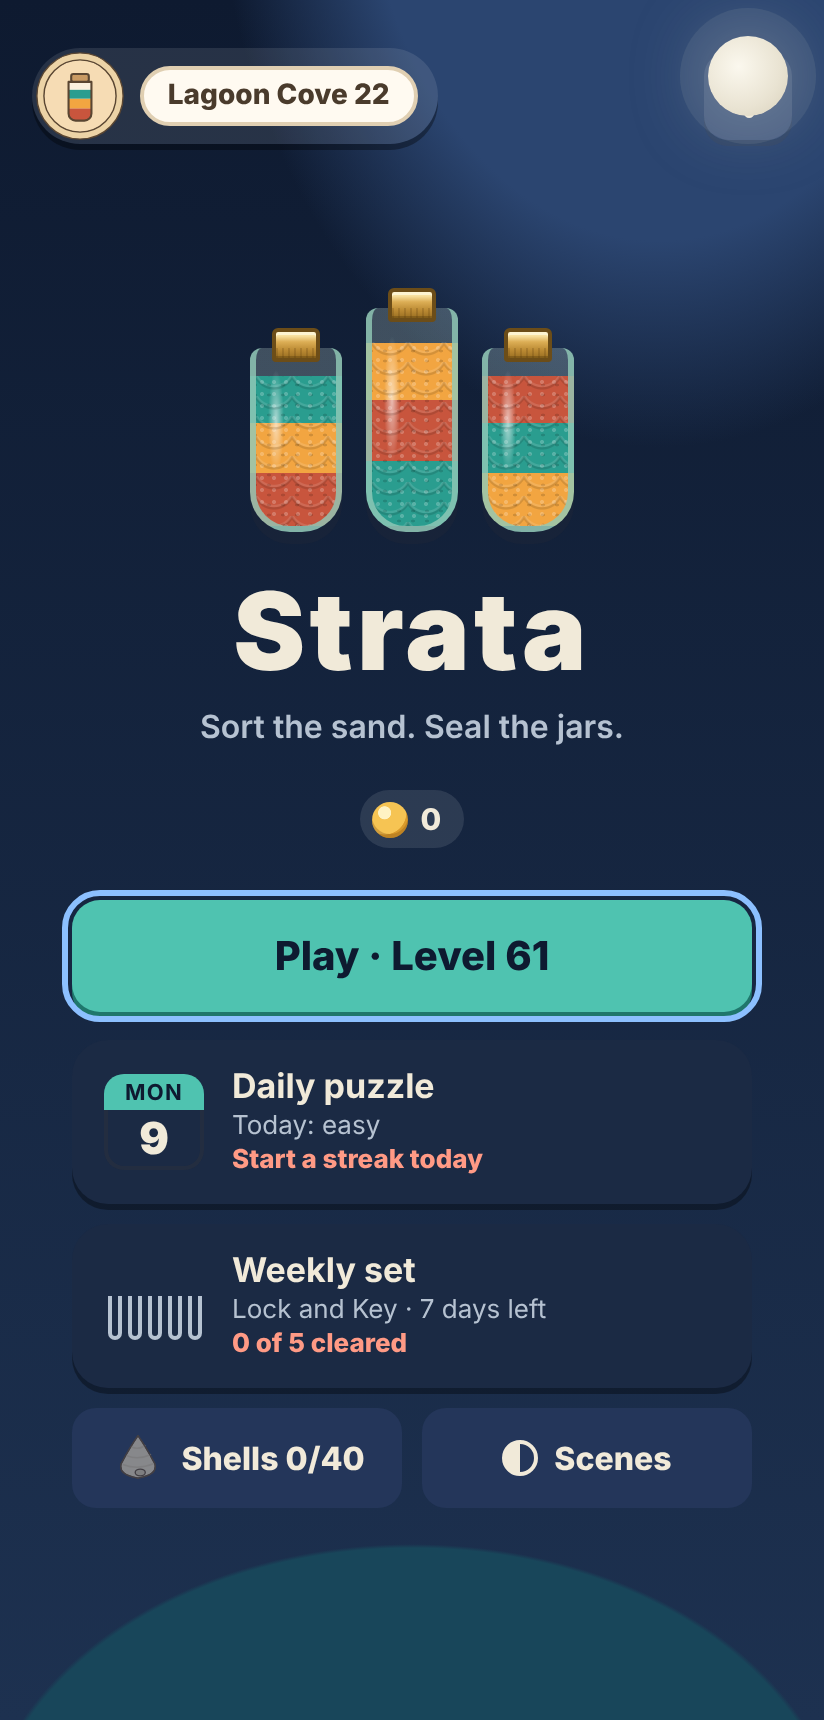
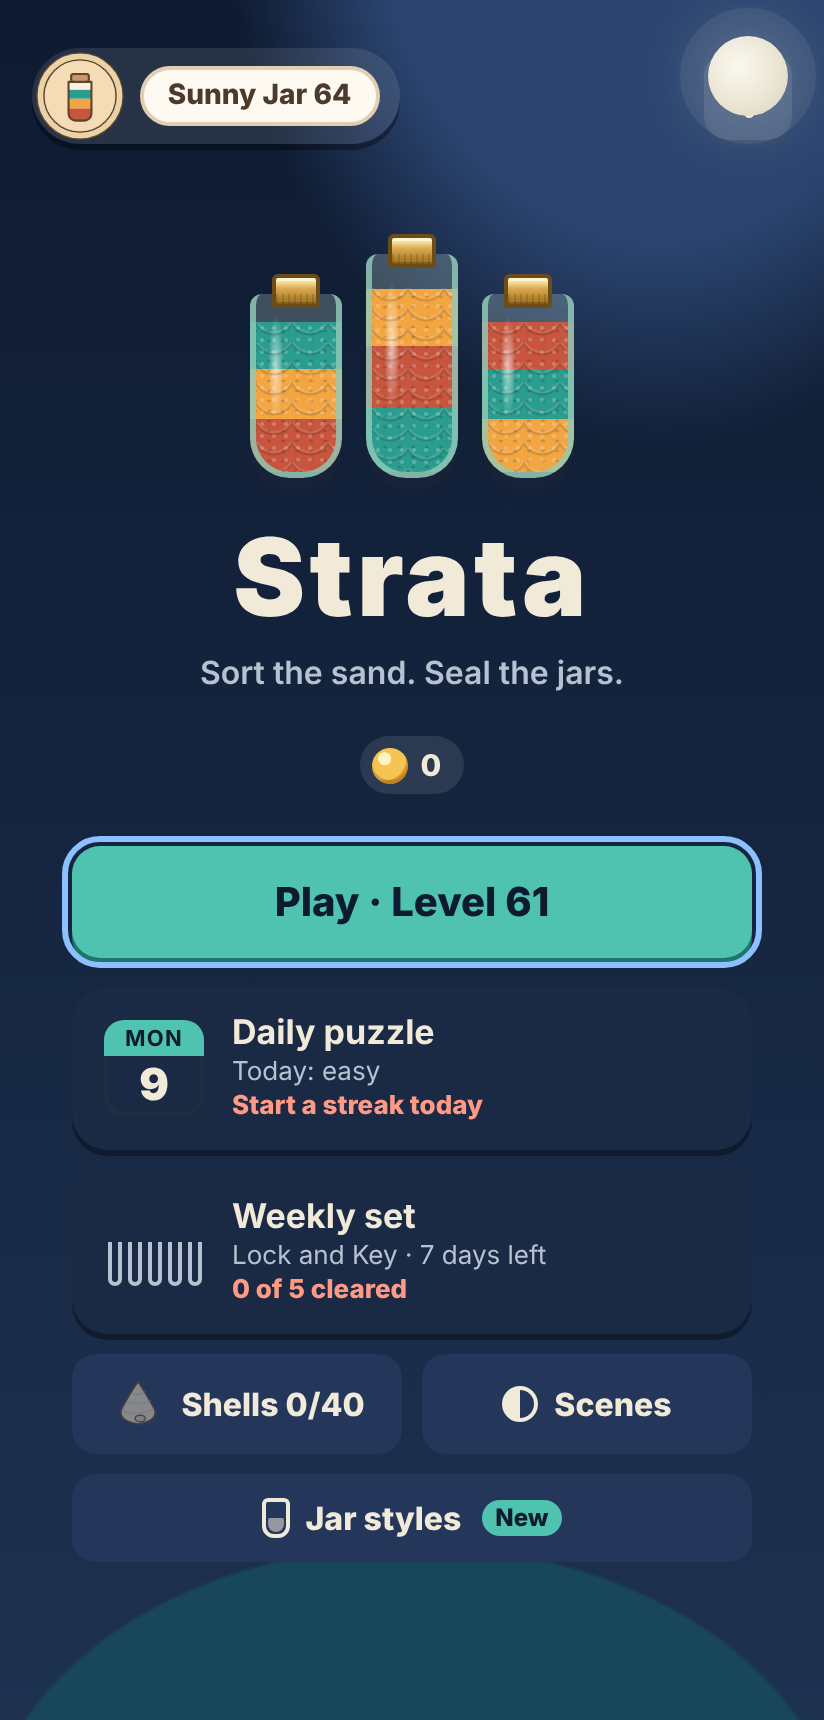
fix: jar style art review fixes (Home cork, frost, glint, pearl, pour and buried sand)
- Home art shows a stopper for every cork, the default included (today's board cork).
- Sea glass frost alpha follows the scene's --glass: quiet on dark scenes.
- Glint sparkles get a faint dark halo, so they read on light sand.
- Pearl outline is more opaque than the scene edge, at least as strong as clear glass.
- The worn sand texture now shows on the mid-pour tilted fill and under buried "?" units
  (generated from the table; the cap test now also covers the buried colour).
- Evidence regenerated, plus two mid-pour captures.

Story: sprint-12 S3. Design: design/gdd/jar-styles.md

Claude-Session: https://claude.ai/code/session_0159TZnrk52QMtuhsaHD9b53

Changed region(s): [[0.0607, 0.1233, 0.9405, 0.8936], [0.2124, 0.0308, 0.5158, 0.0924], [0.5461, 0.7087, 0.6675, 0.7703]]

diff --git a/src/ui/style.css b/src/ui/style.css
@@ -3509,7 +3509,8 @@ body[data-theme='harvestmoon']::before {
   --style-shine-x: 18%;
 }
 [data-glass='pearl'] {
-  --style-edge: color-mix(in srgb, var(--glass-edge) 65%, rgb(232, 214, 228));
+  /* A pearly grey-mauve that is more opaque than the scene edge, so the outline is at least as strong as clear glass. */
+  --style-edge: color-mix(in srgb, var(--glass-edge) 80%, rgb(120, 96, 120));
   --style-body: color-mix(in srgb, var(--glass) 75%, rgba(252, 240, 248, 0.6));
   --style-band: rgba(250, 232, 244, 0.42);
   --style-rim: linear-gradient(90deg, rgba(255, 232, 244, 0.7), rgba(228, 238, 255, 0.7) 50%, rgba(255, 246, 228, 0.7));
@@ -3535,7 +3536,8 @@ body[data-theme='harvestmoon']::before {
 }
 /* Sea glass is frosted: a fine white speckle on the empty glass above the sand (the funnel keeps its stripes). */
 [data-glass='seaglass'] .jar:not(.funnel) > .glass {
-  background-image: radial-gradient(rgba(255, 255, 255, 0.22) 0.6px, transparent 1px);
+  /* Scene-aware: about 0.2 alpha on light scenes' glass, about 0.05 on dark scenes' (--glass is 0.1 there). */
+  background-image: radial-gradient(color-mix(in srgb, var(--glass) 55%, transparent) 0.6px, transparent 1px);
   background-size: 3px 3px;
 }
 /* Home art: the outline and a highlight streak (the art has no rim). */
@@ -3546,8 +3548,9 @@ body[data-theme='harvestmoon']::before {
     linear-gradient(0deg, var(--a) 0 30%, var(--b) 30% 58%, var(--c2) 58% 84%, var(--style-body) 84%);
 }
 
-/* Cork: the stopper on sealed jars, and a stopper on the Home art (today's Home art has none, so the
-   default cork shows none there). Each piece is one background, edge, shape and shadow. */
+/* Cork: the stopper on sealed jars, and a stopper on the Home art. Each piece is one background, edge,
+   shape and shadow. The Home stopper shows for every cork, the default included (the owner's call in
+   sprint 12 review: this adds a stopper to today's Home art); its fallbacks are the board's default cork. */
 [data-cork='driftwood'] {
   --cork-bg:
     repeating-linear-gradient(90deg, rgba(64, 58, 52, 0.3) 0 1px, transparent 1px 3.5px),
@@ -3587,19 +3590,19 @@ body[data-theme='harvestmoon']::before {
   border-radius: var(--cork-radius);
   box-shadow: var(--cork-shadow, none);
 }
-:is([data-cork='driftwood'], [data-cork='rope'], [data-cork='scallop'], [data-cork='brass']) .logo-jars i {
+.logo-jars i {
   position: relative;
 }
-:is([data-cork='driftwood'], [data-cork='rope'], [data-cork='scallop'], [data-cork='brass']) .logo-jars i::before {
+.logo-jars i::before {
   content: '';
   position: absolute;
   left: 20%;
   right: 20%;
   top: -10px;
   height: 13px;
-  background: var(--cork-bg);
-  border: 2px solid var(--cork-edge);
-  border-radius: var(--cork-radius);
+  background: var(--cork-bg, radial-gradient(rgba(0, 0, 0, 0.18) 1px, transparent 1.5px) 0 0 / 5px 4px, linear-gradient(180deg, #d8a86b, #b7834a));
+  border: 2px solid var(--cork-edge, #8a6136);
+  border-radius: var(--cork-radius, 5px 5px 3px 3px);
   box-shadow: var(--cork-shadow, none);
   pointer-events: none;
 }
@@ -3610,18 +3613,22 @@ body[data-theme='harvestmoon']::before {
    tests/unit/ui/style-art.test.ts fails if this block and the table differ, and checks the cap (jar-styles.md §4).
    The texture is drawn on ::before over the sand colour; with colour patterns on, ::after draws the
    unit's own .pat-* layers again on top (background-* inherit), so a pattern is never under a texture.
-   Buried units keep their own look. Nothing here animates. */
-:is([data-sand='fine'], [data-sand='glint'], [data-sand='layered'], [data-sand='ripple']) .unit:not(.buried) {
+   Buried units take it too, under their "?" (their colour stays var(--buried)); so do the stripes of
+   the tilted fill mid-pour (.tilt-band, coloured inline), where the texture is a clear overlay.
+   Nothing here animates. */
+:is([data-sand='fine'], [data-sand='glint'], [data-sand='layered'], [data-sand='ripple']) .unit,
+:is([data-sand='fine'], [data-sand='glint'], [data-sand='layered'], [data-sand='ripple']) .tilt-band > span {
   position: relative;
 }
-:is([data-sand='fine'], [data-sand='glint'], [data-sand='layered'], [data-sand='ripple']) .unit:not(.buried)::before,
+:is([data-sand='fine'], [data-sand='glint'], [data-sand='layered'], [data-sand='ripple']) .unit::before,
+:is([data-sand='fine'], [data-sand='glint'], [data-sand='layered'], [data-sand='ripple']) .tilt-band > span::before,
 :is([data-sand='fine'], [data-sand='glint'], [data-sand='layered'], [data-sand='ripple']) .unit[class*='pat-']::after {
   content: '';
   position: absolute;
   inset: 0;
   pointer-events: none;
 }
-:is([data-sand='fine'], [data-sand='glint'], [data-sand='layered'], [data-sand='ripple']) .unit:not(.buried)::before {
+:is([data-sand='fine'], [data-sand='glint'], [data-sand='layered'], [data-sand='ripple']) .unit::before {
   background-color: var(--c);
   box-shadow: inherit;
 }
@@ -3644,7 +3651,8 @@ body[data-theme='harvestmoon']::before {
   border-radius: 0 0 17px 17px;
   pointer-events: none;
 }
-[data-sand='fine'] .unit:not(.buried)::before,
+[data-sand='fine'] .unit::before,
+[data-sand='fine'] .tilt-band > span::before,
 [data-sand='fine'] .logo-jars i::after {
   background-image:
     radial-gradient(rgba(255, 255, 255, 0.2) 0.45px, transparent 0.8px),
@@ -3653,21 +3661,25 @@ body[data-theme='harvestmoon']::before {
   background-size: 4px 4px, 5px 4px, 3px 3px;
   background-position: 0px 0px, 2px 1px, 1px 2px;
 }
-[data-sand='glint'] .unit:not(.buried)::before,
+[data-sand='glint'] .unit::before,
+[data-sand='glint'] .tilt-band > span::before,
 [data-sand='glint'] .logo-jars i::after {
   background-image:
     radial-gradient(3.2px 0.45px, rgba(255, 255, 255, 0.25) 15%, transparent),
     radial-gradient(0.45px 3.2px, rgba(255, 255, 255, 0.25) 15%, transparent),
     radial-gradient(1.1px 1.1px, rgba(255, 255, 255, 0.25) 50%, transparent),
+    radial-gradient(2.4px 2.4px, rgba(0, 0, 0, 0.22) 35%, transparent),
     radial-gradient(2.4px 0.45px, rgba(255, 255, 255, 0.25) 15%, transparent),
     radial-gradient(0.45px 2.4px, rgba(255, 255, 255, 0.25) 15%, transparent),
     radial-gradient(1.1px 1.1px, rgba(255, 255, 255, 0.25) 50%, transparent),
+    radial-gradient(1.8px 1.8px, rgba(0, 0, 0, 0.22) 35%, transparent),
     radial-gradient(rgba(255, 255, 255, 0.22) 0.8px, transparent 1.2px),
     radial-gradient(rgba(0, 0, 0, 0.14) 0.8px, transparent 1.2px);
-  background-size: 26px 22px, 26px 22px, 26px 22px, 34px 29px, 34px 29px, 34px 29px, 6px 6px, 7px 5px;
-  background-position: 0px 0px, 0px 0px, 0px 0px, 13px 15px, 13px 15px, 13px 15px, 0px 0px, 3px 2px;
+  background-size: 26px 22px, 26px 22px, 26px 22px, 26px 22px, 34px 29px, 34px 29px, 34px 29px, 34px 29px, 6px 6px, 7px 5px;
+  background-position: 0px 0px, 0px 0px, 0px 0px, 0px 0px, 13px 15px, 13px 15px, 13px 15px, 13px 15px, 0px 0px, 3px 2px;
 }
-[data-sand='layered'] .unit:not(.buried)::before,
+[data-sand='layered'] .unit::before,
+[data-sand='layered'] .tilt-band > span::before,
 [data-sand='layered'] .logo-jars i::after {
   background-image:
     linear-gradient(180deg, transparent 20%, rgba(255, 255, 255, 0.12) 24% 29%, transparent 33%),
@@ -3678,7 +3690,8 @@ body[data-theme='harvestmoon']::before {
   background-size: 100% 100%, 100% 100%, 100% 100%, 6px 6px, 7px 5px;
   background-position: 0 0, 0 0, 0 0, 0px 0px, 3px 2px;
 }
-[data-sand='ripple'] .unit:not(.buried)::before,
+[data-sand='ripple'] .unit::before,
+[data-sand='ripple'] .tilt-band > span::before,
 [data-sand='ripple'] .logo-jars i::after {
   background-image:
     radial-gradient(circle at 9px -5px, transparent 9.15px, rgba(255, 255, 255, 0.12) 9.65px 10.35px, transparent 10.85px),

diff --git a/src/ui/style-art.ts b/src/ui/style-art.ts
@@ -99,12 +99,26 @@ export const PLAIN_GRAIN: readonly GrainLayer[] = [
   { kind: 'grain', rgb: BLACK, alpha: 0.14, r0: 0.8, r1: 1.2, w: 7, h: 5, x: 3, y: 2 },
 ];
 
-/** Sparkle: a small four-point star (two thin arms and a core) in a `w`×`h` tile. */
+/**
+ * Today's grain on a buried ("?") unit: a mirror of the `.unit.buried` rule in style.css. A buried unit
+ * takes the worn texture too (under its "?"), and this is its §4 baseline.
+ */
+export const BURIED_GRAIN: readonly GrainLayer[] = [
+  { kind: 'grain', rgb: BLACK, alpha: 0.2, r0: 1, r1: 1.4, w: 6, h: 6, x: 0, y: 0 },
+  { kind: 'grain', rgb: WHITE, alpha: 0.25, r0: 0.8, r1: 1.2, w: 7, h: 5, x: 3, y: 2 },
+];
+
+/**
+ * Sparkle: a small four-point star (two thin arms and a core) in a `w`×`h` tile, over a faint dark
+ * halo. The halo is what makes the white star readable on light sand (lemon, mint); on dark sand the
+ * star carries it. Listed first draws on top, so the halo is last.
+ */
 function sparkle(arm: number, alpha: number, w: number, h: number, x: number, y: number): DotLayer[] {
   return [
     { kind: 'dot', rgb: WHITE, alpha, rx: arm, ry: 0.45, inner: 0.15, w, h, x, y },
     { kind: 'dot', rgb: WHITE, alpha, rx: 0.45, ry: arm, inner: 0.15, w, h, x, y },
     { kind: 'dot', rgb: WHITE, alpha, rx: 1.1, ry: 1.1, inner: 0.5, w, h, x, y },
+    { kind: 'dot', rgb: BLACK, alpha: 0.22, rx: arm * 0.75, ry: arm * 0.75, inner: 0.35, w, h, x, y },
   ];
 }
 
@@ -181,7 +195,8 @@ export function layerCss(l: SandLayer): { image: string; size: string; position:
 
 /**
  * The attribute sits on a container (`#board`, `#home` or a `.style-preview`), so every selector is
- * `[data-sand='id'] …`: units on the board and in previews (`.unit`), and the Home art (`.logo-jars i`).
+ * `[data-sand='id'] …`: units on the board and in previews (`.unit`, buried ones too), the mid-pour
+ * fill (`.tilt-band > span`), and the Home art (`.logo-jars i`).
  */
 const anySand = `:is(${SAND_IDS.map((id) => `[data-sand='${id}']`).join(', ')})`;
 const homeJars = (attr: string): string => `${attr} .logo-jars i`;
@@ -192,17 +207,22 @@ export const SAND_CSS_END = '/* style-art:sand:end */';
 
 /** The whole generated sand block for style.css, markers included. */
 export function sandTextureCss(): string {
-  const unit = `${anySand} .unit:not(.buried)`;
+  const unit = `${anySand} .unit`;
+  const tilt = `${anySand} .tilt-band > span`;
   const out: string[] = [
     `${SAND_CSS_BEGIN}: generated by sandTextureCss() in src/ui/style-art.ts; do not edit by hand.`,
     '   tests/unit/ui/style-art.test.ts fails if this block and the table differ, and checks the cap (jar-styles.md §4).',
     '   The texture is drawn on ::before over the sand colour; with colour patterns on, ::after draws the',
     '   unit\'s own .pat-* layers again on top (background-* inherit), so a pattern is never under a texture.',
-    '   Buried units keep their own look. Nothing here animates. */',
-    `${unit} {`,
+    '   Buried units take it too, under their "?" (their colour stays var(--buried)); so do the stripes of',
+    '   the tilted fill mid-pour (.tilt-band, coloured inline), where the texture is a clear overlay.',
+    '   Nothing here animates. */',
+    `${unit},`,
+    `${tilt} {`,
     '  position: relative;',
     '}',
     `${unit}::before,`,
+    `${tilt}::before,`,
     `${anySand} .unit[class*='pat-']::after {`,
     "  content: '';",
     '  position: absolute;',
@@ -237,7 +257,8 @@ export function sandTextureCss(): string {
     const layers = SAND_TEXTURES[id].map(layerCss);
     const attr = `[data-sand='${id}']`;
     out.push(
-      `${attr} .unit:not(.buried)::before,`,
+      `${attr} .unit::before,`,
+      `${attr} .tilt-band > span::before,`,
       `${homeJars(attr)}::after {`,
       `  background-image:\n${layers.map((l) => `    ${l.image}`).join(',\n')};`,
       `  background-size: ${layers.map((l) => l.size).join(', ')};`,

diff --git a/tests/unit/ui/style-art.test.ts b/tests/unit/ui/style-art.test.ts
@@ -12,6 +12,7 @@ const writeFileSync = writeFs as (path: URL, data: string) => void;
 const env = (globalThis as unknown as { process: { env: Record<string, string | undefined> } }).process.env;
 import gameConfig from '../../../src/config/game-config.json';
 import {
+  BURIED_GRAIN,
   PLAIN_GRAIN,
   SAND_ALPHA_CAP,
   SAND_CSS_BEGIN,
@@ -74,7 +75,17 @@ describe('sand textures: CSS and table stay in step', () => {
     expect(unitRule.replace(/\s+/g, ' ')).toContain(`background-size: ${PLAIN_GRAIN.map((l) => layerCss(l).size.replace(/px/g, 'px')).join(', ')};`);
     expect(unitRule.replace(/\s+/g, ' ')).toContain(`background-position: 0 0, 3px 2px;`);
   });
+
+  it('BURIED_GRAIN mirrors the hand-written grain on .unit.buried', () => {
+    const at = css.indexOf('\n.unit.buried {');
+    const rule = css.slice(at, css.indexOf('}', at));
+    for (const l of BURIED_GRAIN) expect(rule).toContain(layerCss(l).image);
+  });
 });
+
+/** Every sand colour, plus the buried ("?") colour (the root --buried token; scenes never change it). */
+const buriedHex = /--buried:\s*(#[0-9a-f]{6})/i.exec(css)![1];
+const units = [...config.palette.map((p) => ({ ...p, buried: false })), { id: 'buried', hex: buriedHex, buried: true }];
 
 describe('sand overlay cap (jar-styles.md §4)', () => {
   it(`every texture layer has alpha ≤ ${SAND_ALPHA_CAP} in the table`, () => {
@@ -91,8 +102,8 @@ describe('sand overlay cap (jar-styles.md §4)', () => {
   it(`each texture moves every sand colour's mean relative luminance by ≤ ${SAND_LUMINANCE_CAP * 100}% against plain sand`, () => {
     const worst: Record<string, number> = {};
     for (const id of SAND_IDS) {
-      for (const { id: colour, hex } of config.palette) {
-        const plain = meanUnitLuminance(hex, PLAIN_GRAIN);
+      for (const { id: colour, hex, buried } of units) {
+        const plain = meanUnitLuminance(hex, buried ? BURIED_GRAIN : PLAIN_GRAIN);
         const styled = meanUnitLuminance(hex, SAND_TEXTURES[id]);
         const change = Math.abs(styled - plain) / plain;
         worst[id] = Math.max(worst[id] ?? 0, change);

diff --git a/production/qa/evidence/sprint-12/art/README.md b/production/qa/evidence/sprint-12/art/README.md
@@ -17,6 +17,11 @@ buried units are repainted in all 14 palette colours (level 61 starts mostly bur
 | `sheet-sand.png` | (a) plain, fine, glint, layered and ripple in the same four scenes |
 | `sheet-sand-patterns-on.png` | (b) every sand piece with colour patterns ON (midday and auroranight): the `.pat-*` pattern stays on top of each texture |
 | `sheet-cork-closeup.png` | (c) a close-up of the sealed jar for every cork, in all four scenes |
-| `home-midday-default.png`, `home-moonlit-default.png` | (d) Home with no style attributes: today's look |
+| `home-midday-default.png`, `home-moonlit-default.png` | (d) Home with no style attributes: today's art plus the default cork stopper (added at the owner's review) |
 | `home-midday-seaglass-brass-ripple.png`, `home-moonlit-seaglass-brass-ripple.png` | (d) Home with one combined look (sea glass, brass, ripple) |
 | `home-midday-art-closeup.png`, `home-moonlit-art-closeup.png` | (d) a close-up of the same Home art |
+| `pour-ripple-midday.png`, `pour-layered-midday.png` | (e) mid-pour with motion on, frozen with `document.getAnimations().forEach(a => a.pause())`: the tilted fill and the buried "?" units both show the worn texture |
+
+The owner's review fixes are all in these shots. The default cork has a Home stopper. The sea glass
+frost is quieter in dark scenes. Glint has a dark halo, so it reads on light sand. The pearl outline is
+at least as strong as clear glass. The worn texture also shows mid-pour and on buried units.
